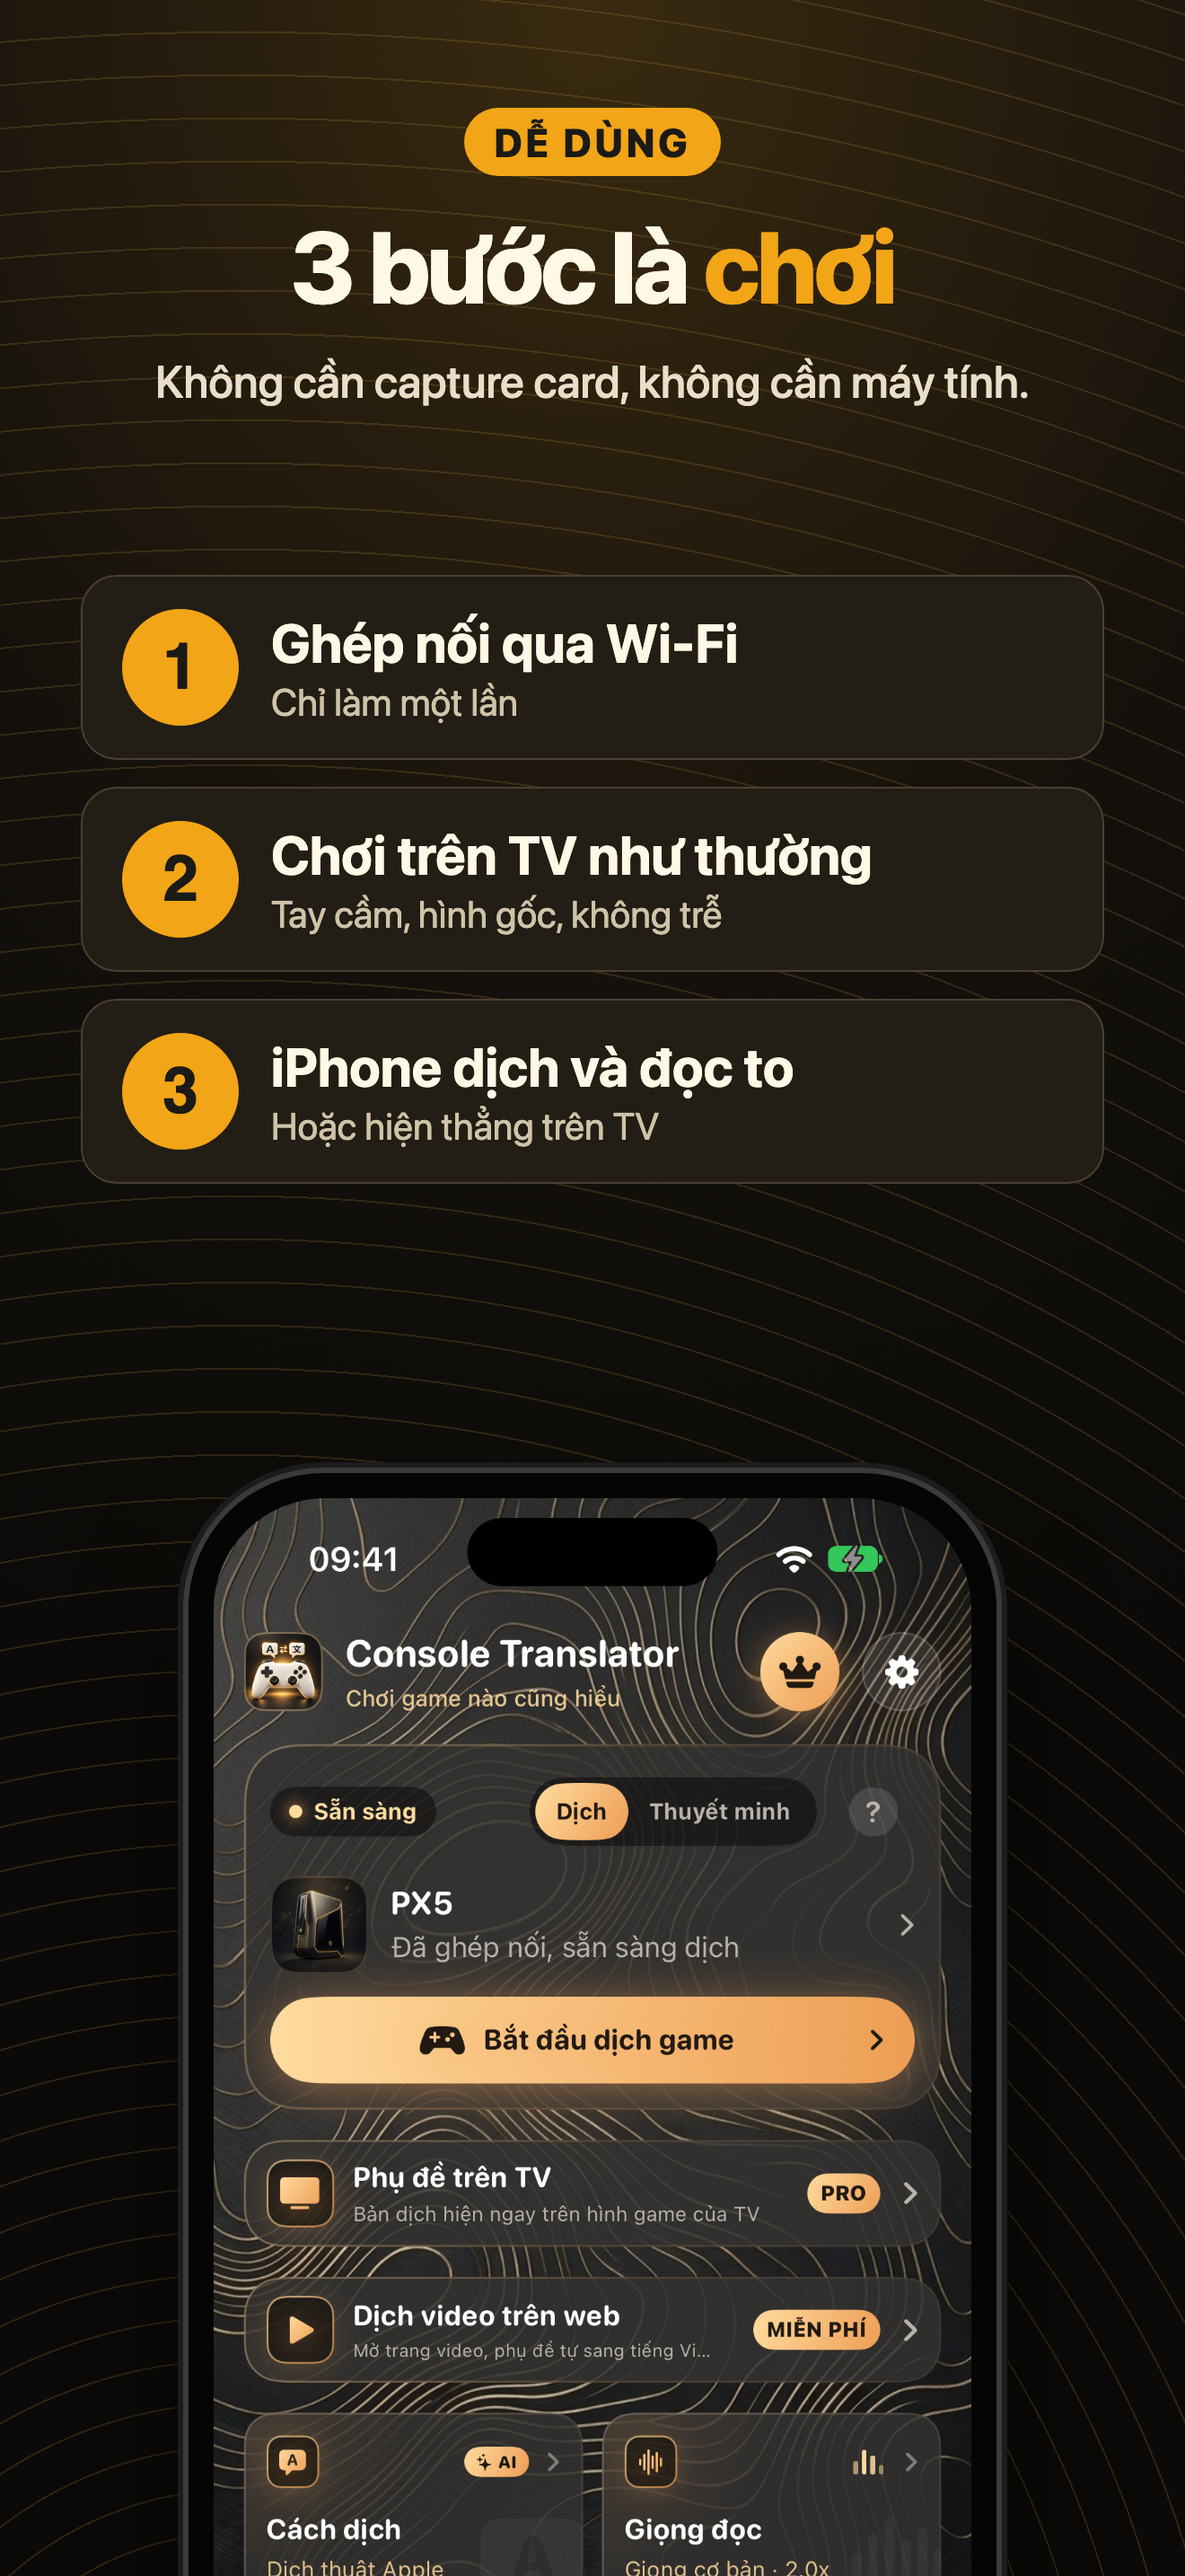
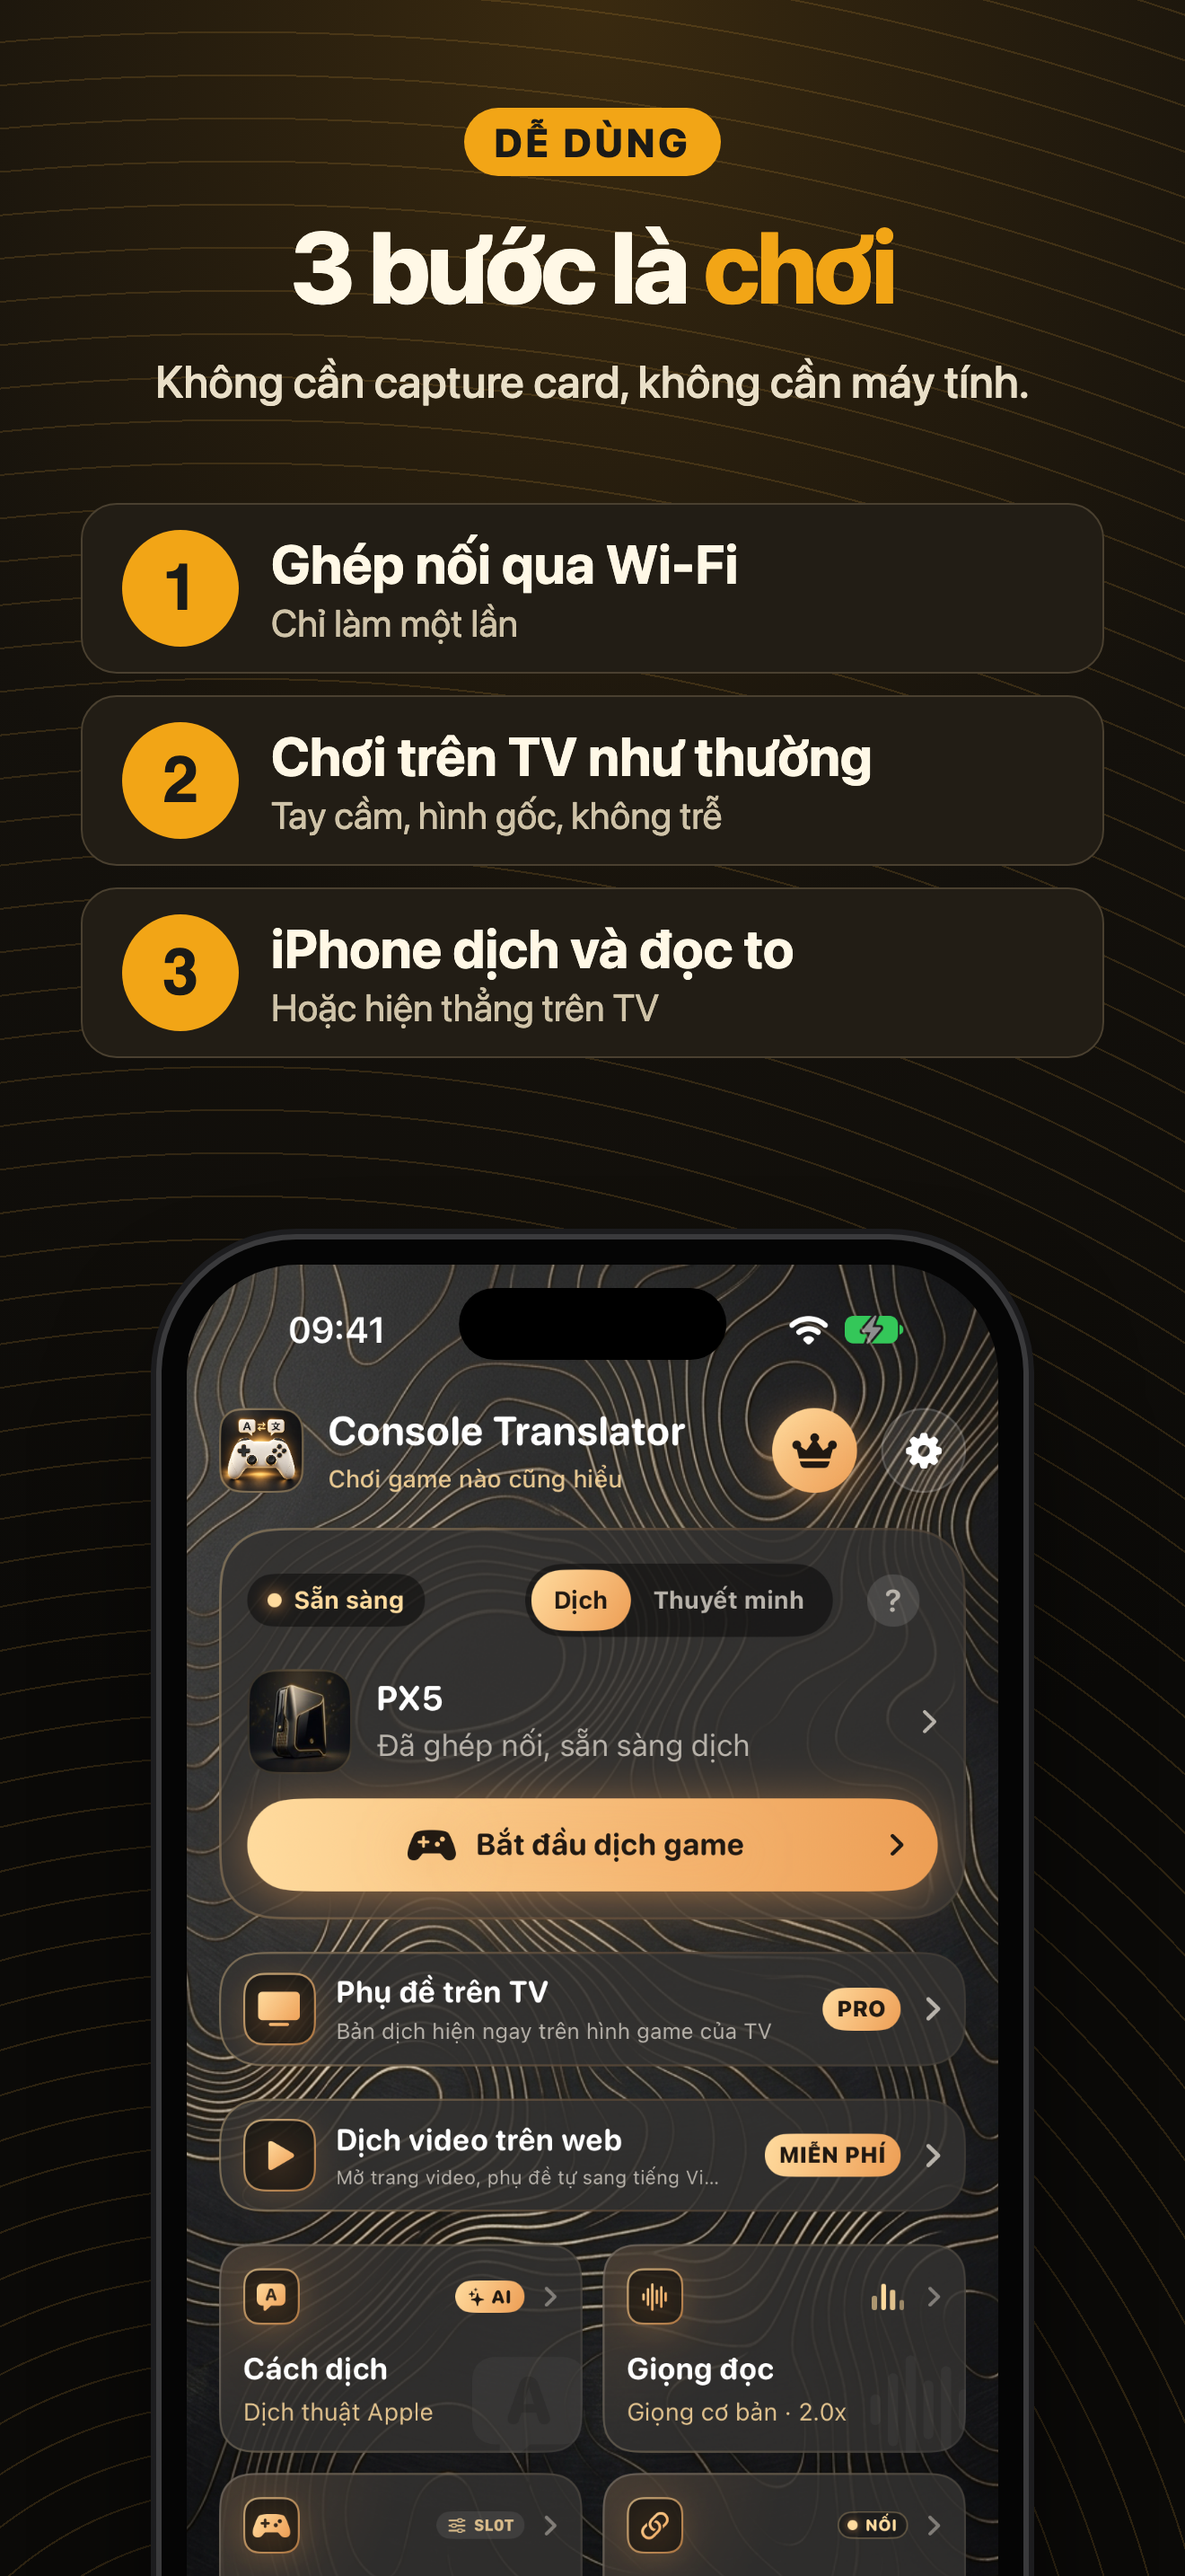
App Store shot 6: phone higher and larger

Changed region(s): [[0.0932, 0.1862, 0.8697, 1.0]]

diff --git a/appstore/index.html b/appstore/index.html
@@ -67,7 +67,7 @@
   .phone.big { top: 640px; width: 1060px; }
   .phone.duo { top: 1380px; width: 760px; border-radius: 116px; padding: 22px; }
   .phone.duo img { border-radius: 96px; }
-  .phone.half { top: 1640px; width: 900px; }
+  .phone.half { top: 1380px; width: 960px; }
   .tv .sub.en { background: rgba(0,0,0,.35); font-weight: 600; }
   .flow { position: absolute; left: 80px; right: 80px; top: 1520px; }
   .card { border-radius: 44px; padding: 56px 60px; font-size: 80px; line-height: 1.25; font-weight: 700; }
@@ -77,8 +77,8 @@
   .arrow { text-align: center; font-size: 90px; color: var(--amber); line-height: 1.2; }
   .chips { position: absolute; left: 0; right: 0; bottom: 200px; display: flex; justify-content: center; gap: 22px; }
   .chips b { font-size: 54px; padding: 22px 42px; border-radius: 999px; border: 3px solid var(--amber); color: var(--amber); }
-  .steps { position: absolute; left: 90px; right: 90px; top: 640px; display: grid; gap: 30px; }
-  .steps div { display: grid; grid-template-columns: 130px 1fr; column-gap: 36px; align-items: center; background: #221d15; border: 2px solid #4a4030; border-radius: 40px; padding: 36px 44px; }
+  .steps { position: absolute; left: 90px; right: 90px; top: 560px; display: grid; gap: 24px; }
+  .steps div { display: grid; grid-template-columns: 130px 1fr; column-gap: 36px; align-items: center; background: #221d15; border: 2px solid #4a4030; border-radius: 40px; padding: 28px 44px; }
   .steps i { grid-row: span 2; width: 130px; height: 130px; border-radius: 50%; background: var(--amber); color: #1b1a17; font: 800 72px/130px -apple-system, sans-serif; text-align: center; font-style: normal; }
   .steps b { font-size: 60px; } .steps span { font-size: 42px; color: #cfc3a8; }
 </style>
